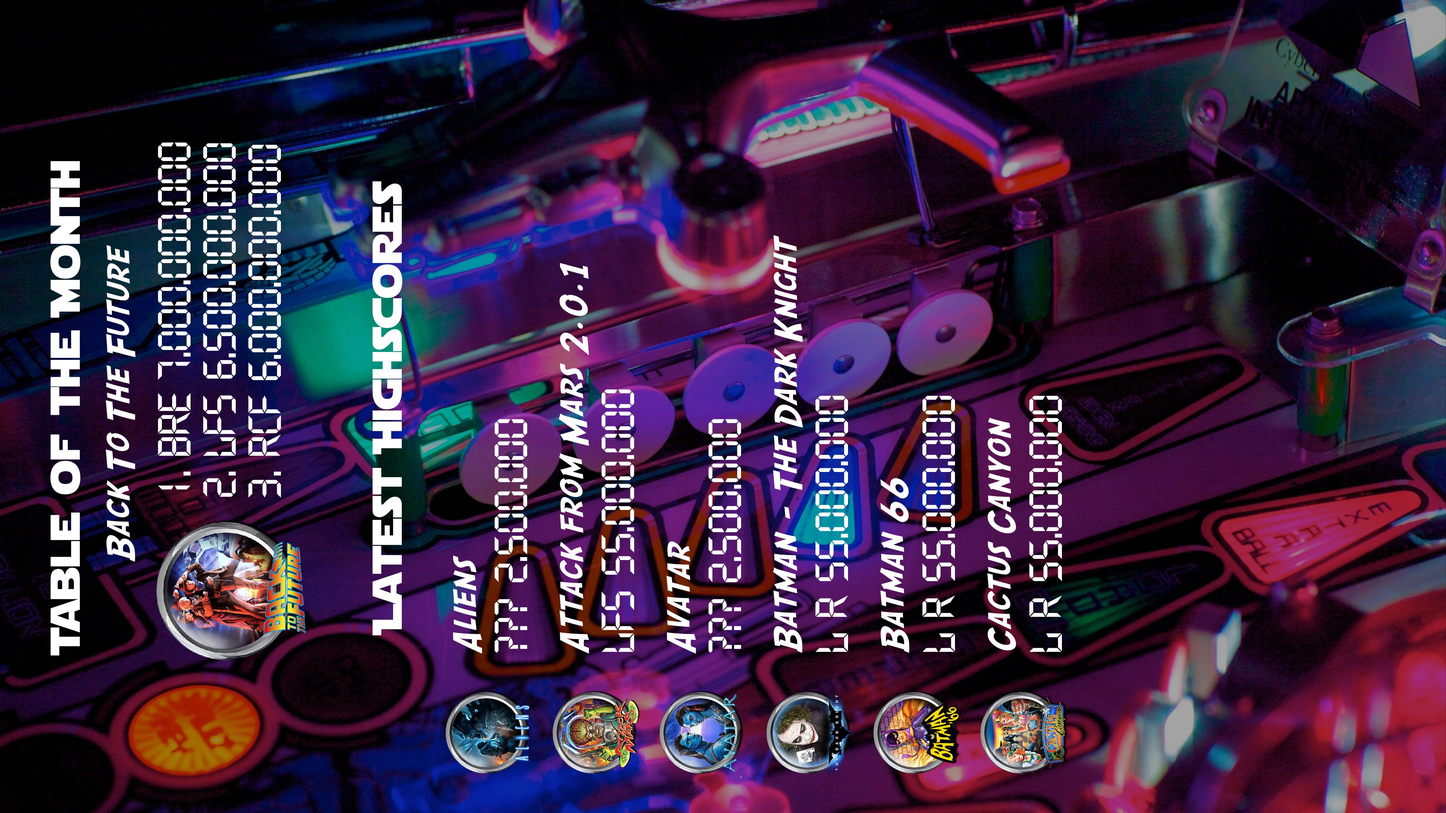
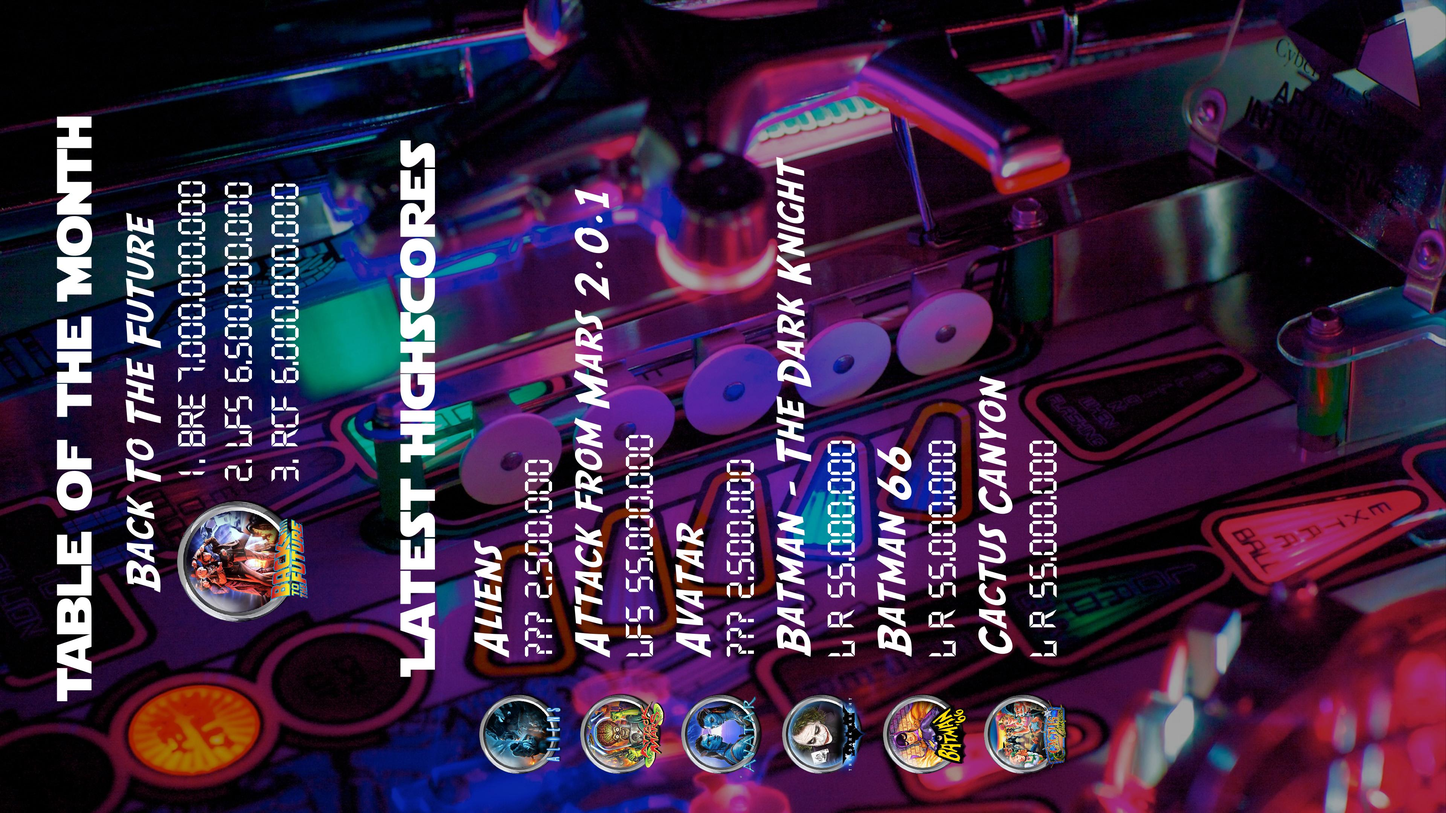
1.0.3

diff --git a/src/main/java/de/mephisto/vpin/extensions/overlaysettings/OverlaySettingsTab.java b/src/main/java/de/mephisto/vpin/extensions/overlaysettings/OverlaySettingsTab.java
@@ -91,9 +91,9 @@ public class OverlaySettingsTab extends JPanel {
     WidgetFactory.createFileChooser(settingsPanel, "Background Image:", "Select File", store, "overlay.background", "background4k.jpg");
     WidgetFactory.createTextField(settingsPanel, "Challenge Title:", store, "overlay.title.text", "Table of the Month");
     WidgetFactory.createTextField(settingsPanel, "Highscores Title:", store, "overlay.highscores.text", "Latest Highscores");
-    WidgetFactory.createFontSelector(settingsPanel, "Title Font:", store, "overlay.title.font");
-    WidgetFactory.createFontSelector(settingsPanel, "Table Name Font:", store, "overlay.table.font");
-    WidgetFactory.createFontSelector(settingsPanel, "Score Font:", store, "overlay.score.font");
+    WidgetFactory.createFontSelector(settingsPanel, "Title Font:", store, "overlay.title.font", 130);
+    WidgetFactory.createFontSelector(settingsPanel, "Table Name Font:", store, "overlay.table.font", 120);
+    WidgetFactory.createFontSelector(settingsPanel, "Score Font:", store, "overlay.score.font", 100);
     WidgetFactory.createColorChooser(configWindow, settingsPanel, "Font Color:", store, "overlay.font.color");
     WidgetFactory.createSpinner(settingsPanel, "Padding Top:", "px", store, "overlay.title.y.offset", 80);
     WidgetFactory.createSpinner(settingsPanel, "Padding Left:", "px", store, "overlay.highscores.row.padding.left", 60);

diff --git a/src/main/java/de/mephisto/vpin/extensions/cardsettings/CardSettingsTab.java b/src/main/java/de/mephisto/vpin/extensions/cardsettings/CardSettingsTab.java
@@ -69,9 +69,9 @@ public class CardSettingsTab extends JPanel {
     /******************************** Generator Fields ****************************************************************/
     WidgetFactory.createFileChooser(settingsPanel, "Background Image:", "Select File", store, "card.background", "highscore-card-background.jpg");
     WidgetFactory.createTextField(settingsPanel, "Card Title:", store, "card.title.text", "Highscore");
-    WidgetFactory.createFontSelector(settingsPanel, "Title Font:", store, "card.title.font");
-    WidgetFactory.createFontSelector(settingsPanel, "Table Name Font:", store, "card.table.font");
-    WidgetFactory.createFontSelector(settingsPanel, "Score Font:", store, "card.score.font");
+    WidgetFactory.createFontSelector(settingsPanel, "Title Font:", store, "card.title.font", 120);
+    WidgetFactory.createFontSelector(settingsPanel, "Table Name Font:", store, "card.table.font", 100);
+    WidgetFactory.createFontSelector(settingsPanel, "Score Font:", store, "card.score.font", 80);
     WidgetFactory.createColorChooser(configWindow, settingsPanel, "Font Color:", store, "card.font.color");
     WidgetFactory.createSpinner(settingsPanel, "Padding Top:", "px", store, "card.title.y.offset", 80);
     WidgetFactory.createSpinner(settingsPanel, "Padding Left:", "px", store, "card.highscores.row.padding.left", 60);

diff --git a/src/main/java/de/mephisto/vpin/extensions/generator/OverlayGraphics.java b/src/main/java/de/mephisto/vpin/extensions/generator/OverlayGraphics.java
@@ -94,7 +94,9 @@ public class OverlayGraphics extends VPinGraphics {
       g.setFont(new Font(TABLE_FONT_NAME, TABLE_FONT_STYLE, TABLE_FONT_SIZE));
       String challengedTable = challengedGame.getGameDisplayName();
       int width = g.getFontMetrics().stringWidth(challengedTable);
-      int tableNameY = titleY + ROW_SEPARATOR + TITLE_FONT_SIZE;
+
+
+      int tableNameY = titleY + (2* ROW_SEPARATOR) + TITLE_FONT_SIZE;
       g.drawString(challengedTable, imageWidth / 2 - width / 2, tableNameY);
 
       g.setFont(new Font(SCORE_FONT_NAME, SCORE_FONT_STYLE, SCORE_FONT_SIZE));
@@ -118,12 +120,12 @@ public class OverlayGraphics extends VPinGraphics {
       }
 
       int position = 0;
-      int wheelWidth = 3 * TITLE_FONT_SIZE + 3 * ROW_SEPARATOR;
+      int wheelWidth = (3 * SCORE_FONT_SIZE) + (3 * ROW_SEPARATOR);
       int totalScoreAndWheelWidth = scoreWidth + wheelWidth;
 
       for (String score : scores) {
         position++;
-        int scoreY = tableNameY + (position * SCORE_FONT_SIZE) + ROW_SEPARATOR;
+        int scoreY = tableNameY + (position * SCORE_FONT_SIZE) +  (position * ROW_SEPARATOR);
         g.drawString(score, imageWidth / 2 - totalScoreAndWheelWidth / 2 + wheelWidth + ROW_SEPARATOR, scoreY);
       }
 

diff --git a/src/main/java/de/mephisto/vpin/extensions/util/WidgetFactory.java b/src/main/java/de/mephisto/vpin/extensions/util/WidgetFactory.java
@@ -223,10 +223,10 @@ public class WidgetFactory {
     });
   }
 
-  public static void createFontSelector(JPanel parent, String label, PropertiesStore store, String property) {
+  public static void createFontSelector(JPanel parent, String label, PropertiesStore store, String property, int defaultSize) {
     parent.add(new JLabel(label));
     String name = store.getString(property + ".name", "Arial");
-    int size = store.getInt(property + ".size", 48);
+    int size = store.getInt(property + ".size", defaultSize);
     final JLabel titleFontLabel = new JLabel(name + " / " + size);
     parent.add(titleFontLabel, "span 3");
     JButton fontChooserButton = new JButton("Choose Font");
